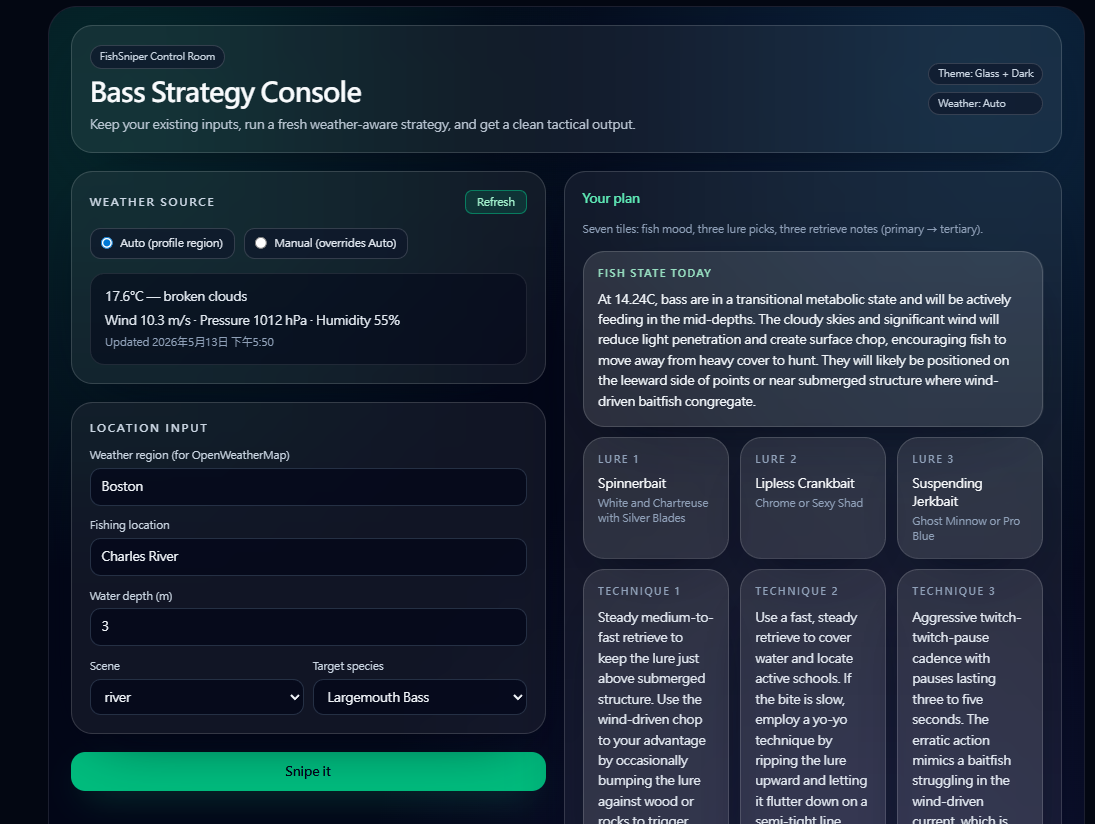
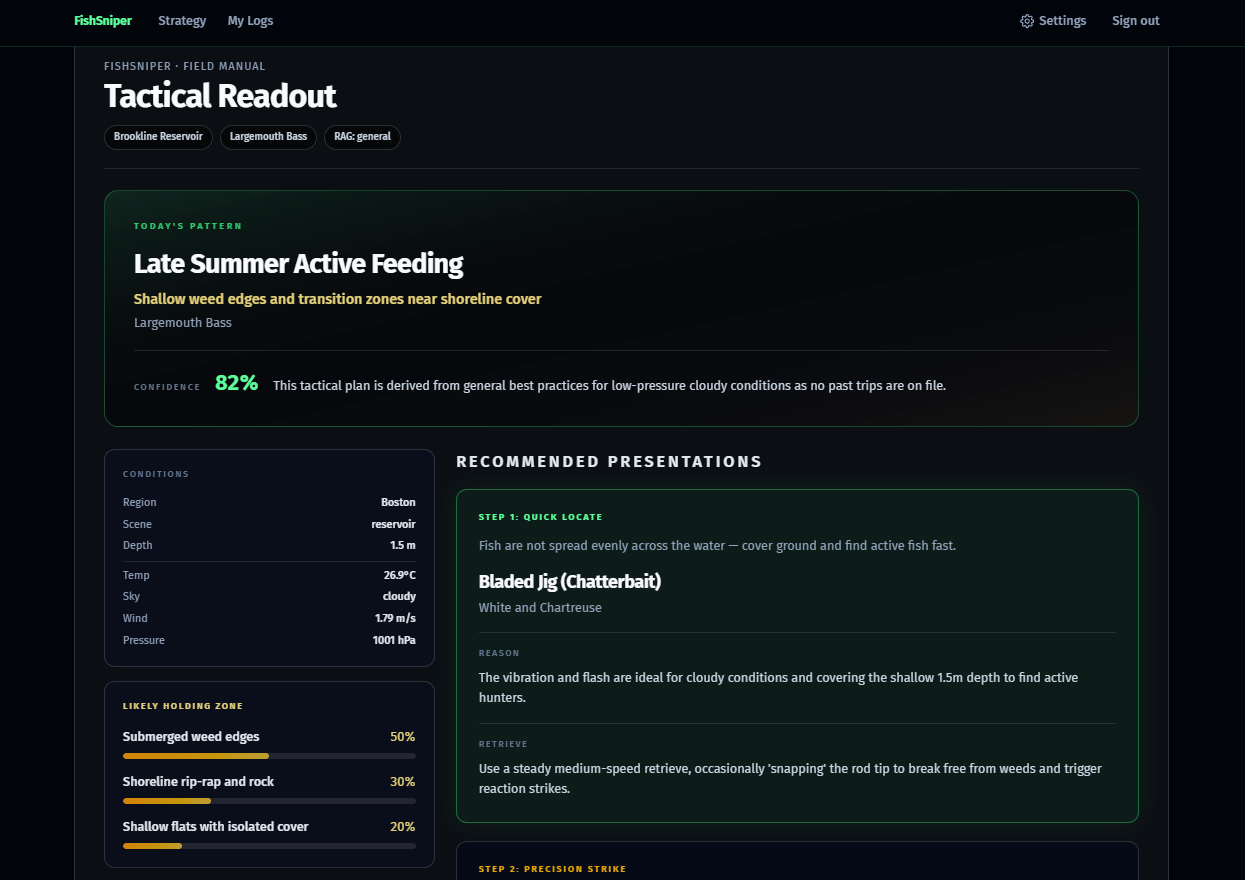
Update(README.md): update demo picture

diff --git a/README.md b/README.md
@@ -13,8 +13,8 @@
 
 
 <!-- ### Strategy page -->
-![Strategy screen](images/strategy-demo.png)
-
+![Strategy screen](images/strategy-input.png)
+![Strategy report](images/strategy-demo.png)
 
 ---
 
